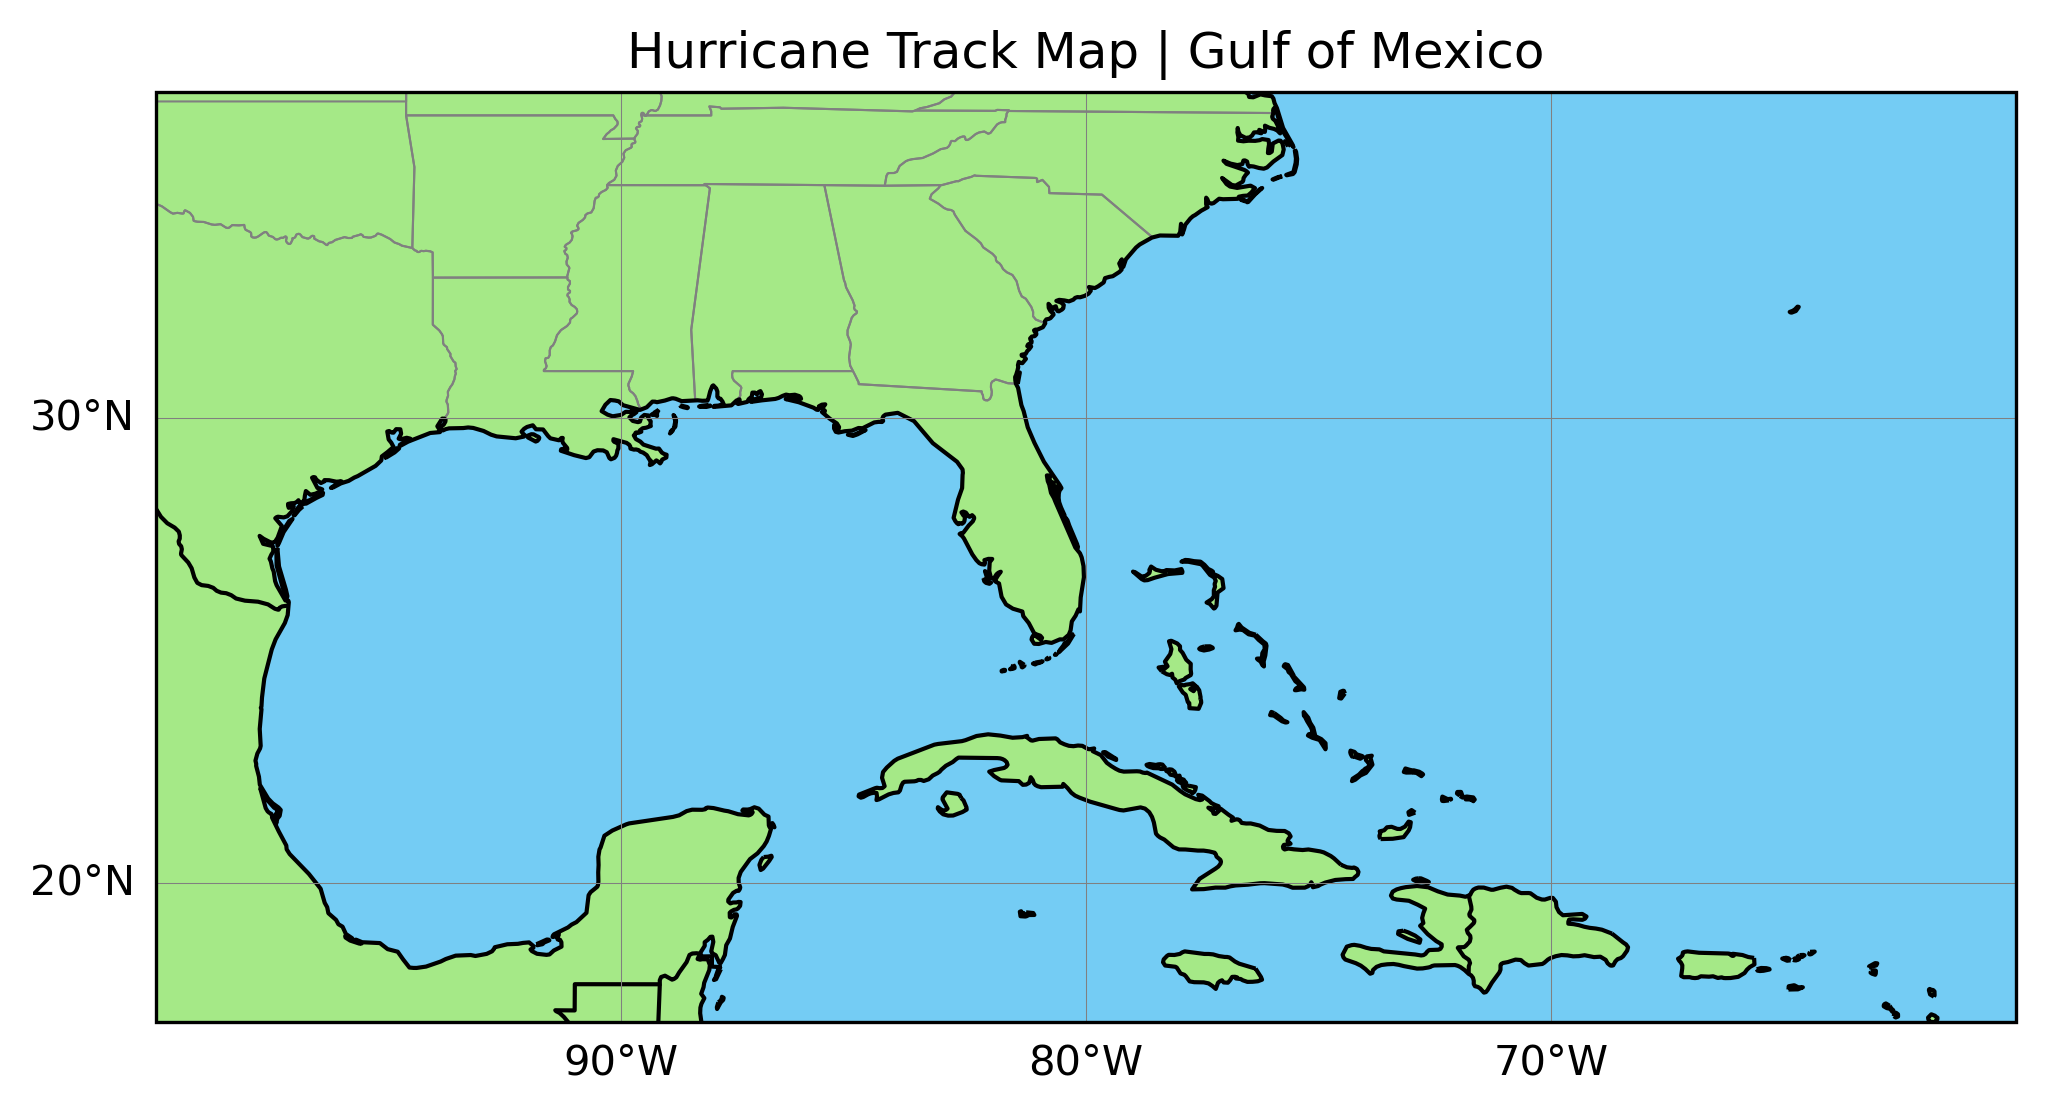
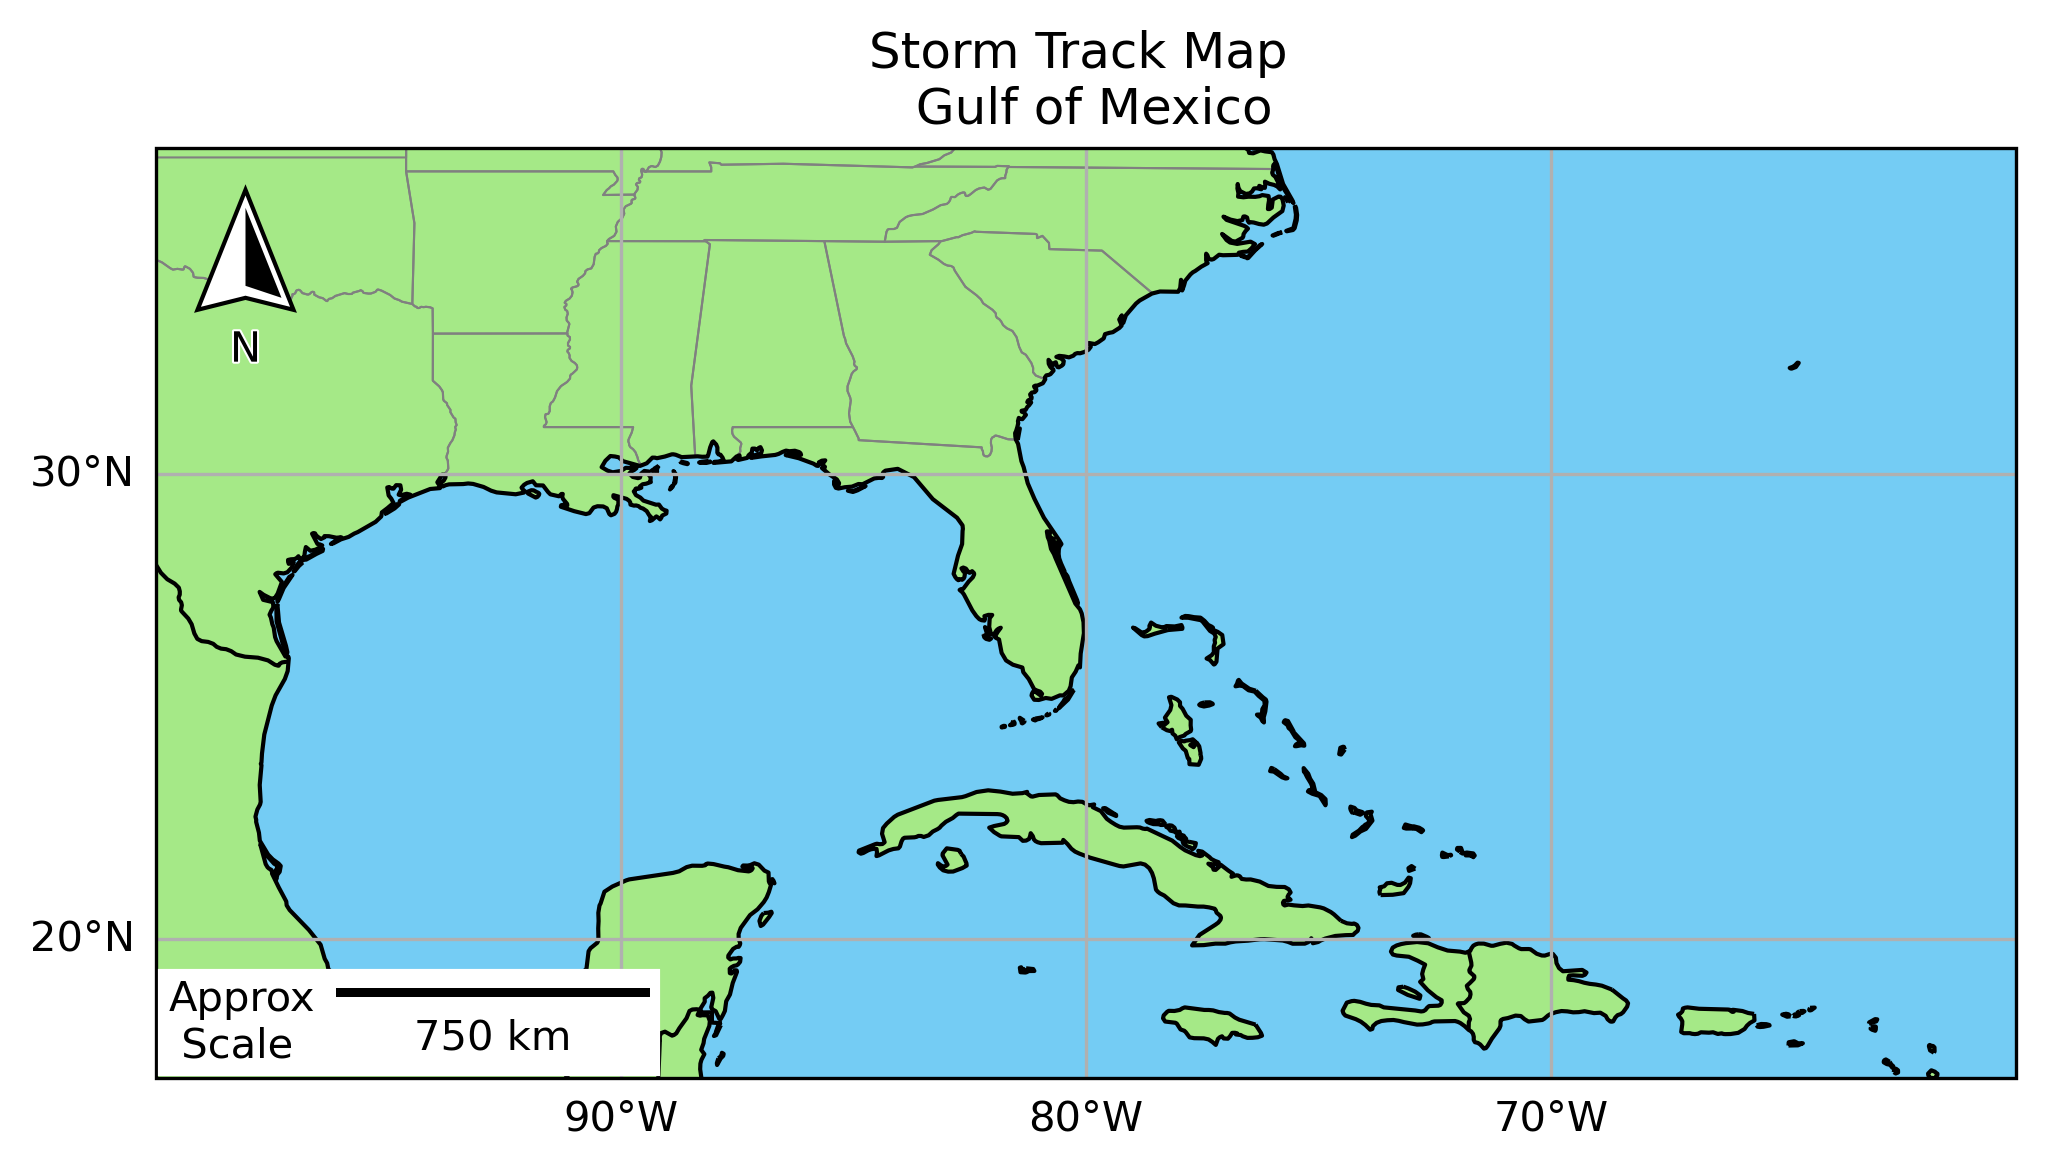
add scalebar and pass parameters to savefig function

diff --git a/stormtracker.py b/stormtracker.py
@@ -3,6 +3,7 @@ import cartopy.feature as cfeature # Gives access to border/color features
 import matplotlib.pyplot as plt  # the Figure object acts as a container for the display output
 from cartopy.mpl.gridliner import LONGITUDE_FORMATTER, LATITUDE_FORMATTER  # to display gridlines
 from matplotlib_map_utils.core.north_arrow import north_arrow  # used to draw north arrow
+from matplotlib_scalebar.scalebar import ScaleBar  # used to draw scalebar
 import matplotlib.ticker as mticker  # use to display gridlines
 import pandas as pd
 import geopandas as gpd
@@ -130,7 +131,7 @@ def creategeodataframe(dataframe):
 '''
 MAP DISPLAY FUNCTIONS
 '''
-def savefig():
+def savefig(image):
     '''
     Save the figure as stormtrackermap.png with a dpi of 300
     '''
@@ -182,8 +183,25 @@ def displaymap():
         label={"position": "bottom", "text": "N", "fontsize": 10},
     )
 
+    # add a simple scalebar
+    # For PlateCarree (degrees), dx is usually the size of 1 meter in degrees.
+    # Approximately 111km per degree at equator, changes with latitude.
+    # Using a local conversion factor is safer.
+    scale_bar = ScaleBar(
+        111e3,  # e3 to display as km
+        "m",
+        location="lower left",
+        label="Approx\n Scale",
+        label_loc="left",
+        scale_loc="bottom",
+        color="black",
+        font_properties={"family": "sans-serif", "size": 10}
+    )
+    ax.add_artist(scale_bar)
+
+
     # save the figure to a .png image
-    #image = fig.savefig('stormtrackermap.png', bbox_inches='tight', dpi=300)
+    image = fig.savefig('stormtrackermap.png', bbox_inches='tight', dpi=300)
 
 
     # Show plot in Pycharm without figure disappearing off-screen
@@ -191,7 +209,7 @@ def displaymap():
     plt.show(block=True)
     plt.interactive(False)
 
-    # return instance of map for use in matplotlib axes object
+    # return image of map to pass to savefig function
     return image
 
 
@@ -199,3 +217,4 @@ def displaymap():
 CALL FUNCTIONS
 '''
 displaymap()
+savefig(image)

diff --git a/README.md b/README.md
@@ -374,4 +374,22 @@ print(geodataframe.to_string())
     )
 ```
 
-![test 9](/imgs/testimgs/test9_addnortharrow.png)
+![test 9 add north arrow to map](/imgs/testimgs/test9_addnortharrow.png)
+
+#### Test 10 -  Add a simple scalebar to the map
+**Status** - RESOLVED
+```python
+    scale_bar = ScaleBar(
+        111e3,  # e3 to display as km
+        "m",
+        location="lower left",
+        label="Approx\n Scale",
+        label_loc="left",
+        scale_loc="bottom",
+        color="black",
+        font_properties={"family": "sans-serif", "size": 10}
+    )
+    ax.add_artist(scale_bar)
+```
+
+![test 10 add simple scalebar to map](/imgs/testimgs/test10_addsimplescalebar.png)
